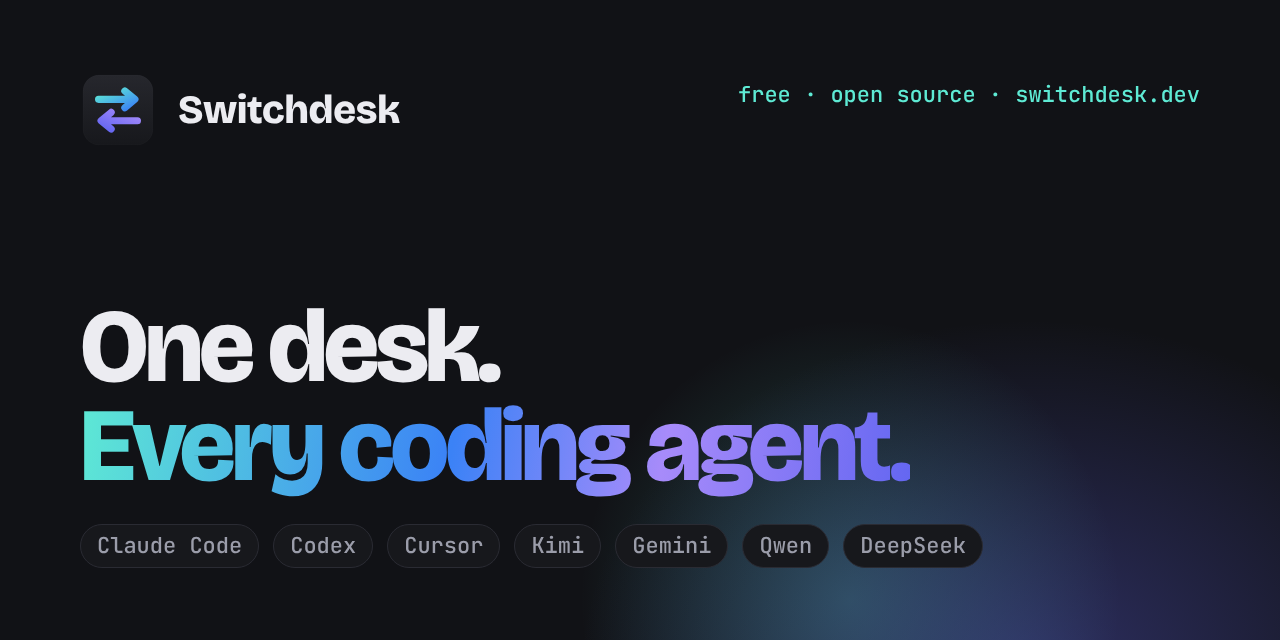
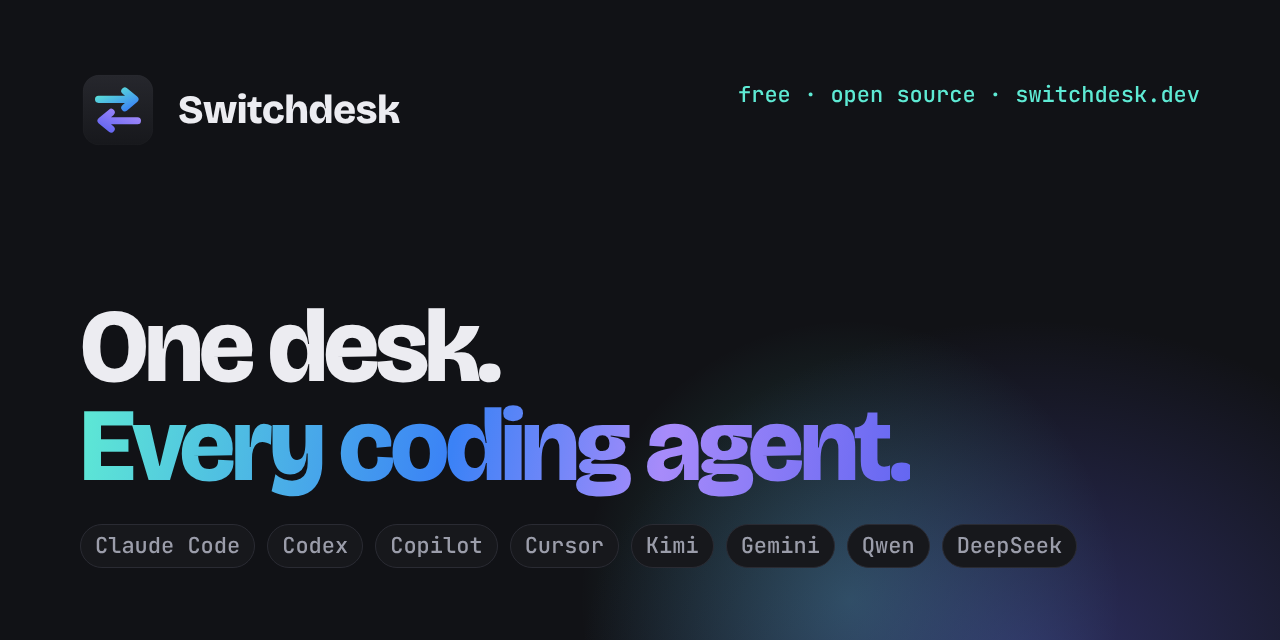
Add GitHub Copilot and the v0.10 features to the website
Copilot joins the agent table, switcher demo and link preview image, and the
features now cover handing chats between agents, the shared AGENTS.md, history
from every agent and the command palette.

Claude-Session: https://claude.ai/code/session_01YUFkZ2pM92oeKYpznyBDCT

diff --git a/site/index.html b/site/index.html
@@ -5,7 +5,7 @@
 <meta name="viewport" content="width=device-width, initial-scale=1, viewport-fit=cover">
 <title>Switchdesk</title>
 <meta name="claude:viewport-fit-sides" content="cover">
-<meta name="description" content="Switchdesk is a free, open-source desktop editor that runs Claude Code, Codex, Cursor, Kimi, Gemini, Qwen and DeepSeek through their own CLIs, signed in with your own plans and keys.">
+<meta name="description" content="Switchdesk is a free, open-source desktop editor that runs Claude Code, Codex, GitHub Copilot, Cursor, Kimi, Gemini, Qwen and DeepSeek through their own CLIs, signed in with your own plans and keys.">
 <meta name="theme-color" content="#111216">
 <link rel="icon" href="icon.svg" type="image/svg+xml">
 <link rel="apple-touch-icon" href="icon.png">
@@ -13,7 +13,7 @@
 <meta property="og:type" content="website">
 <meta property="og:url" content="https://switchdesk.dev/">
 <meta property="og:title" content="Switchdesk: one desk for every coding agent">
-<meta property="og:description" content="A free, open-source desktop editor for Claude Code, Codex, Cursor, Kimi, Gemini, Qwen and DeepSeek. Your plans, your keys, their own CLIs.">
+<meta property="og:description" content="A free, open-source desktop editor for Claude Code, Codex, GitHub Copilot, Cursor, Kimi, Gemini, Qwen and DeepSeek. Your plans, your keys, their own CLIs.">
 <meta property="og:image" content="https://switchdesk.dev/og.png">
 <meta name="twitter:card" content="summary_large_image">
 <link rel="preconnect" href="https://fonts.googleapis.com">
@@ -363,12 +363,12 @@ footer .legal { max-width: 46em; }
         <div class="pills">
           <span class="pill"><b>Free</b> forever</span>
           <span class="pill"><b>MIT</b> licensed</span>
-          <span class="pill"><b>7</b> agents</span>
+          <span class="pill"><b>8</b> agents</span>
         </div>
         <h1>One desk.<span class="swap grad">Every coding agent.</span></h1>
       </div>
       <div>
-        <p class="lede">Switchdesk is a Cursor-style editor for the agents you already pay for. It runs <strong>Claude Code, Codex, Cursor, Kimi, Gemini, Qwen and DeepSeek</strong> through each maker's own CLI, signed in with your own plan or key. Switch agents in the middle of a task and keep going.</p>
+        <p class="lede">Switchdesk is a Cursor-style editor for the agents you already pay for. It runs <strong>Claude Code, Codex, GitHub Copilot, Cursor, Kimi, Gemini, Qwen and DeepSeek</strong> through each maker's own CLI, signed in with your own plan or key. Switch agents in the middle of a task and keep going.</p>
         <div class="cta">
           <a class="btn primary dl-link" href="https://github.com/SlaterMarketing/switchdesk/releases/latest">
             <svg viewBox="0 0 24 24" fill="currentColor" aria-hidden="true"><path d="M3 5.1 10.4 4v7.1H3V5.1Zm0 13.8 7.4 1.1v-7H3v5.9Zm8.3 1.2L21 21.5v-8.4h-9.7v7Zm0-16.2v7.2H21V2.5l-9.7 1.4Z"/></svg>
@@ -387,11 +387,12 @@ footer .legal { max-width: 46em; }
       <span class="label">Switch agent</span>
       <button class="agent-chip" type="button" data-agent="0" aria-pressed="true">Claude Code</button>
       <button class="agent-chip" type="button" data-agent="1" aria-pressed="false">Codex</button>
-      <button class="agent-chip" type="button" data-agent="2" aria-pressed="false">Cursor</button>
-      <button class="agent-chip" type="button" data-agent="3" aria-pressed="false">Kimi</button>
-      <button class="agent-chip" type="button" data-agent="4" aria-pressed="false">Gemini</button>
-      <button class="agent-chip" type="button" data-agent="5" aria-pressed="false">Qwen</button>
-      <button class="agent-chip" type="button" data-agent="6" aria-pressed="false">DeepSeek</button>
+      <button class="agent-chip" type="button" data-agent="2" aria-pressed="false">Copilot</button>
+      <button class="agent-chip" type="button" data-agent="3" aria-pressed="false">Cursor</button>
+      <button class="agent-chip" type="button" data-agent="4" aria-pressed="false">Kimi</button>
+      <button class="agent-chip" type="button" data-agent="5" aria-pressed="false">Gemini</button>
+      <button class="agent-chip" type="button" data-agent="6" aria-pressed="false">Qwen</button>
+      <button class="agent-chip" type="button" data-agent="7" aria-pressed="false">DeepSeek</button>
     </div>
 
     <div class="window" aria-label="Switchdesk app window, illustrated">
@@ -455,6 +456,7 @@ footer .legal { max-width: 46em; }
           <tbody>
             <tr><td>Claude Code</td><td><span class="tag plan">plan</span>&nbsp; Your Claude plan, with several accounts side by side</td><td><code>claude -p --input-format stream-json</code></td></tr>
             <tr><td>Codex</td><td><span class="tag plan">plan</span>&nbsp; Your ChatGPT plan, or an OpenAI API key</td><td><code>codex app-server</code></td></tr>
+            <tr><td>GitHub Copilot</td><td><span class="tag plan">plan</span>&nbsp; Your GitHub Copilot plan, through <code>copilot login</code></td><td><code>copilot --acp</code></td></tr>
             <tr><td>Cursor</td><td><span class="tag plan">plan</span>&nbsp; Your Cursor plan, through <code>agent login</code></td><td><code>agent acp</code></td></tr>
             <tr><td>Kimi</td><td><span class="tag plan">plan</span>&nbsp; Your Kimi Code membership</td><td><code>kimi acp</code></td></tr>
             <tr><td>Gemini</td><td><span class="tag key">key</span>&nbsp; Your Gemini API key</td><td><code>gemini --acp</code></td></tr>
@@ -500,20 +502,29 @@ footer .legal { max-width: 46em; }
           </div>
         </div>
         <div class="group">
-          <div><h3>Run more at once</h3><p>Several agents, several projects, several accounts.</p></div>
+          <div><h3>Mix agents freely</h3><p>Use the best agent for each step without starting over.</p></div>
           <div class="feats">
-            <div class="feat"><h4>Parallel agents</h4><p>A chat that works in its own git worktree. Run several, then <b>Merge into my folder</b> for inline review, or discard.</p></div>
-            <div class="feat"><h4>Several windows</h4><p>Each window has its own project, chats, agents and terminals. Quitting remembers them all.</p></div>
-            <div class="feat"><h4>Multi-folder workspaces</h4><p>Add a shared library or the backend to the window. Every agent can read and change all of them.</p></div>
+            <div class="feat"><h4>Hand a chat to another agent</h4><p>Switch agents mid-chat and the new one gets the conversation so far, so it carries on where the last one left off.</p></div>
+            <div class="feat"><h4>One set of rules</h4><p>Keep your project rules in one <code>AGENTS.md</code>. Switchdesk points <code>CLAUDE.md</code> at it and hands it to agents that don't read it themselves.</p></div>
+            <div class="feat"><h4>History from every agent</h4><p>Past chats from Claude Code, Codex, Copilot, Gemini, Qwen and DeepSeek, each tagged with its agent, including ones started in your terminal.</p></div>
             <div class="feat"><h4>Several Claude accounts</h4><p>Stay signed in to personal and work accounts at once, and tie each folder to the right one.</p></div>
           </div>
         </div>
         <div class="group">
-          <div><h3>Talk to it naturally</h3><p>A chat panel that keeps up with how you actually work.</p></div>
+          <div><h3>Run more at once</h3><p>Several agents, several projects, one window each.</p></div>
           <div class="feats">
+            <div class="feat"><h4>Parallel agents</h4><p>A chat that works in its own git worktree. Run several, then <b>Merge into my folder</b> for inline review, or discard.</p></div>
+            <div class="feat"><h4>Several windows</h4><p>Each window has its own project, chats, agents and terminals. Quitting remembers them all.</p></div>
+            <div class="feat"><h4>Multi-folder workspaces</h4><p>Add a shared library or the backend to the window. Every agent can read and change all of them.</p></div>
             <div class="feat"><h4>Queue and steer</h4><p>Type while it works and the message waits its turn. Press Enter again to interrupt and steer mid-task.</p></div>
+          </div>
+        </div>
+        <div class="group">
+          <div><h3>Quick to drive</h3><p>Everything is a keystroke away.</p></div>
+          <div class="feats">
+            <div class="feat"><h4>Command palette</h4><p><kbd>Ctrl</kbd> <kbd>Shift</kbd> <kbd>P</kbd> finds every command, settings page, agent, account and recent folder as you type.</p></div>
             <div class="feat"><h4>Context in a keystroke</h4><p><kbd>@</kbd> a file, <kbd>Ctrl</kbd> <kbd>L</kbd> to add a selection, <kbd>Ctrl</kbd> <kbd>K</kbd> to edit it in place, or paste a screenshot.</p></div>
-            <div class="feat"><h4>Chat tabs and history</h4><p>Conversations side by side, and every past Claude Code chat for the folder, including ones from your terminal.</p></div>
+            <div class="feat"><h4>Chat tabs</h4><p>Run several conversations side by side, each with its own agent. A spinner shows which ones are working.</p></div>
             <div class="feat"><h4>Slash commands</h4><p>Type <kbd>/</kbd> for Claude Code's commands, including your own commands and skills.</p></div>
           </div>
         </div>
@@ -587,10 +598,10 @@ footer .legal { max-width: 46em; }
           <details open><summary>Does it cost anything?</summary><p>No. Switchdesk is free and MIT licensed. You use the plans and API keys you already have with each agent's maker, and they bill you as they normally would.</p></details>
           <details><summary>Which systems does it run on?</summary><p>There's a ready-made installer for Windows 10 and 11. On macOS and Linux, run it from source or build an installer with <code>npm run dist:mac</code> or <code>npm run dist:linux</code>.</p></details>
           <details><summary>Windows says it protected my PC. Is that normal?</summary><p>Yes. The installer isn't code-signed yet, because that needs a paid certificate. Click <b>More info</b>, then <b>Run anyway</b>. Updates after that install without the warning.</p></details>
-          <details><summary>Can I switch agents in the middle of a chat?</summary><p>Yes. Pick another agent or Claude account from the menu in the chat box and the conversation carries on.</p></details>
+          <details><summary>Can I switch agents in the middle of a chat?</summary><p>Yes. Pick another agent or Claude account from the menu in the chat box. The new agent gets the conversation so far and carries on where the last one left off, and your files stay as they were.</p></details>
         </div>
         <div>
-          <details><summary>Is it affiliated with Anthropic, OpenAI or Cursor?</summary><p>No. Switchdesk is an independent project. It isn't made by or affiliated with Anthropic, OpenAI, Anysphere, Moonshot, Google, Alibaba or DeepSeek. It runs their official CLIs, which you install and sign in to yourself.</p></details>
+          <details><summary>Is it affiliated with Anthropic, OpenAI, GitHub or Cursor?</summary><p>No. Switchdesk is an independent project. It isn't made by or affiliated with Anthropic, OpenAI, GitHub, Anysphere, Moonshot, Google, Alibaba or DeepSeek. It runs their official CLIs, which you install and sign in to yourself.</p></details>
           <details><summary>Does it have Tab autocomplete?</summary><p>Not yet. Switchdesk is built around agent chats, and the agents' CLIs don't offer inline completions.</p></details>
           <details><summary>Was this called Claude Desk?</summary><p>Yes. It was renamed Switchdesk in version 0.8, when it grew beyond Claude Code. Existing installs update on their own.</p></details>
           <details><summary>Can I share it with my team on my plan?</summary><p>Each person should sign in with their own plan or API key. That's how the agents' terms expect them to be used, and it's how Switchdesk is designed.</p></details>
@@ -614,7 +625,7 @@ footer .legal { max-width: 46em; }
   <div class="wrap">
     <div class="legal">
       <a class="brand" href="#top" style="margin-bottom:12px"><img src="icon.svg" alt="">Switchdesk</a>
-      <p>Free and open source under the MIT licence. Claude, Codex, Cursor, Kimi, Gemini, Qwen and DeepSeek are trademarks of their respective owners. Switchdesk is not made by, affiliated with or endorsed by any of them.</p>
+      <p>Free and open source under the MIT licence. Claude, Codex, GitHub Copilot, Cursor, Kimi, Gemini, Qwen and DeepSeek are trademarks of their respective owners. Switchdesk is not made by, affiliated with or endorsed by any of them.</p>
     </div>
     <nav aria-label="Footer">
       <a href="https://github.com/SlaterMarketing/switchdesk">GitHub</a>
@@ -633,6 +644,8 @@ footer .legal { max-width: 46em; }
       reply: "Old timestamps now drop out of the window on every request, and <code>RATE_LIMIT</code> sets the limit (default 100). Tests pass." },
     { name: "Codex", via: "your ChatGPT plan", cli: "codex app-server",
       reply: "Picked up where the last agent left off. I added a test for the expiry case in <code>test/rateLimit.test.ts</code>; all 14 tests pass." },
+    { name: "Copilot", via: "your GitHub Copilot plan", cli: "copilot --acp",
+      reply: "Read the project rules in <code>AGENTS.md</code> and renamed <code>allow</code> to <code>allowRequest</code> to match them. Callers in <code>routes.ts</code> are updated." },
     { name: "Cursor", via: "your Cursor plan", cli: "agent acp",
       reply: "Reviewed the change. One gap: <code>hits</code> never deletes idle IPs. I added a cleanup when a list empties." },
     { name: "Kimi", via: "your Kimi Code membership", cli: "kimi acp",

diff --git a/CONTRIBUTING.md b/CONTRIBUTING.md
@@ -4,7 +4,7 @@ Thanks for helping. Bug reports, ideas and pull requests are all welcome.
 
 ## Run it locally
 
-You need Node.js 20 or newer and at least one agent CLI (Claude Code, Codex, Cursor's `agent`, Kimi, Gemini CLI or Qwen Code) installed and signed in.
+You need Node.js 20 or newer and at least one agent CLI (Claude Code, Codex, GitHub Copilot, Cursor's `agent`, Kimi, Gemini CLI or Qwen Code) installed and signed in.
 
 ```
 git clone https://github.com/SlaterMarketing/switchdesk
